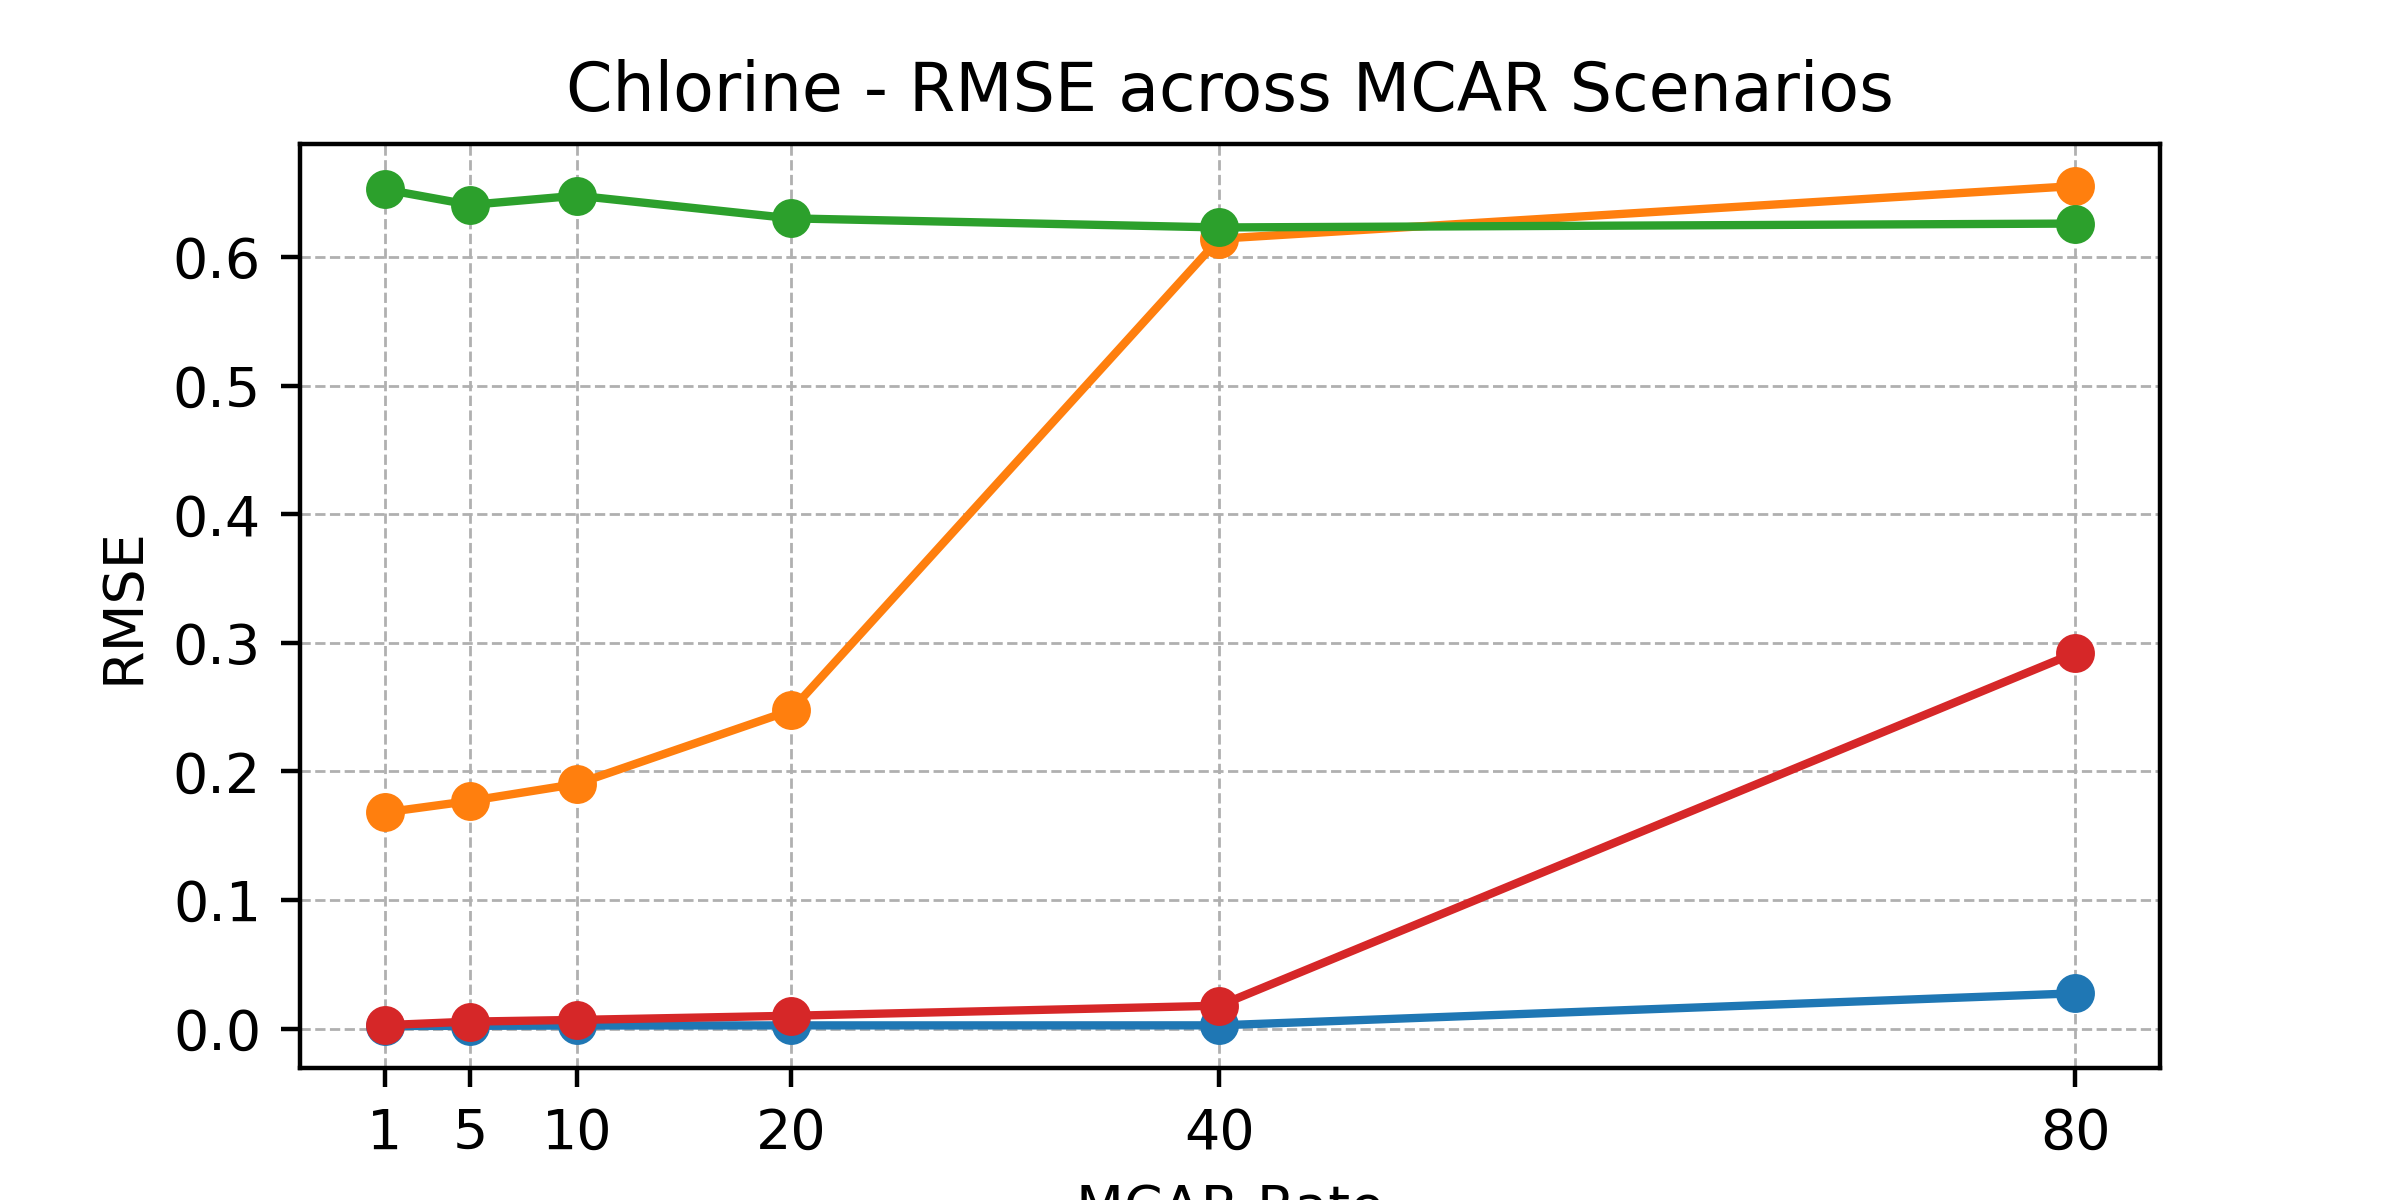
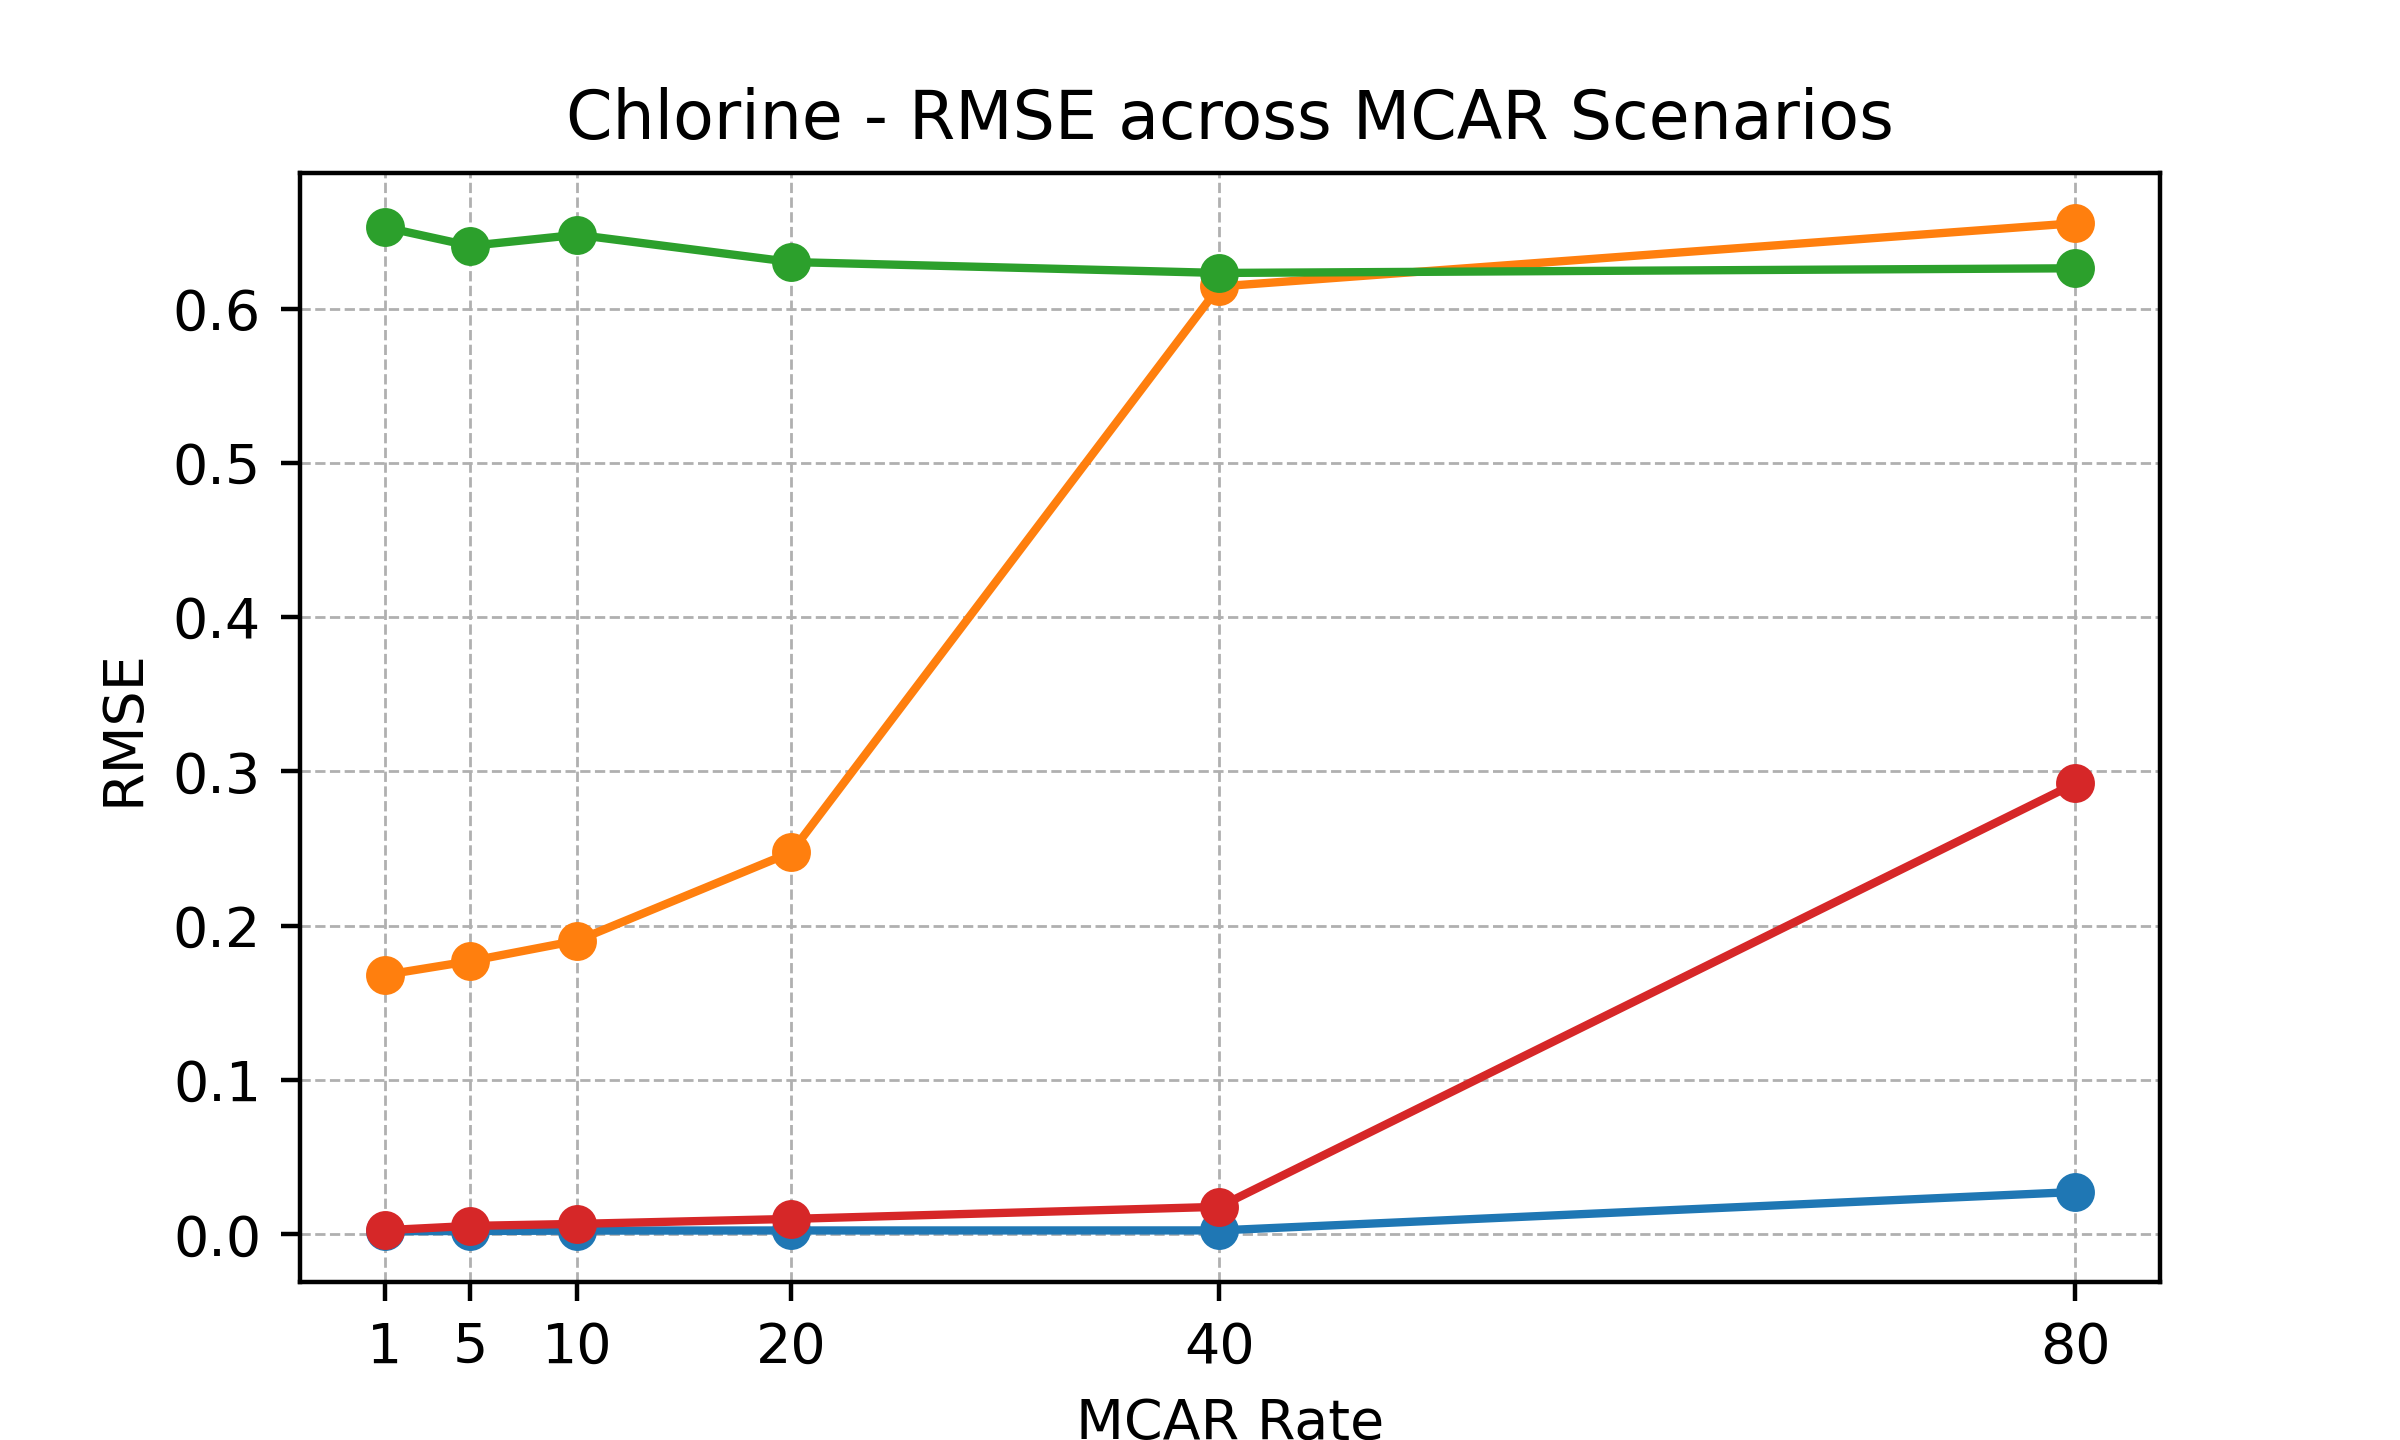
Thesis: WIP Examples and new plots for presentation

diff --git a/IIM/example.py b/IIM/example.py
@@ -1,0 +1,91 @@
+import numpy as np
+import matplotlib.pyplot as plt
+from sympy import symbols, Eq, solve
+
+# For the thesis
+# from sympy import symbols, Eq, solve
+#
+# # Define the variables
+# theta_0, theta_1, lambda_ = symbols('theta_0 theta_1 lambda_')
+#
+# # Differentiate J with respect to theta_0 and theta_1
+# partial_J_theta0 = 2*(theta_0 + theta_1 - 2) + 2*(theta_0 + 2.5*theta_1 - 3) + 2*lambda_*theta_0
+# partial_J_theta1 = 2*(theta_0 + theta_1 - 2) + 5*(theta_0 + 2.5*theta_1 - 3) + 2*lambda_*theta_1
+#
+# # Set the derivatives to zero and solve for theta_0 and theta_1
+# equation1 = Eq(partial_J_theta0, 0)
+# equation2 = Eq(partial_J_theta1, 0)
+#
+# # The solutions will be in terms of lambda
+# solutions = solve((equation1, equation2), (theta_0, theta_1))
+# solutions
+
+
+# For presentation:
+
+# Data
+Tids = ["t1", "t2", "t3", "t4", "t5", "t6", "t7", "t8", "tx"]
+A1 = [0, 0.8, 1.9, 2.9, 6.8, 7.5, 8.2, 9, 5]
+A2 = [5.8, 4.6, 3.8, 3.2, 3, 4.1, 4.8, 5.5, None]
+
+# Plotting
+plt.figure(figsize=(10, 6), dpi=500)
+plt.scatter(A1[:-1], A2[:-1], color="grey", edgecolors="black", s=100, zorder=3)
+plt.axvline(x=A1[-1], color="black", linestyle="--", zorder=2)
+for i, txt in enumerate(Tids[:-1]):
+    plt.annotate(txt, (A1[i], A2[i]), fontsize=15, ha='left', va='bottom', zorder=30)
+plt.annotate(Tids[-1], (A1[-1], 5.8), fontsize=15, ha='left', va='bottom', zorder=30)
+
+# Increase the size of the x and y-axis labels
+plt.xlabel("A1", fontsize=15)
+plt.ylabel("A2", fontsize=15)
+
+# Increase the size of the x and y-axis ticks
+plt.xticks(fontsize=14)
+plt.yticks(fontsize=14)
+
+# plt.title("Plot of points with Tid labels", fontsize=16)
+plt.xlim(0, 10)  # x range from 0 to 10
+plt.ylim(-0.5, 7)  # y range from 0 to 7
+plt.grid(False)
+
+
+plt.savefig("figures/iim-1.png")
+
+# Red Linear Regression for t1 to t4
+x1 = A1[:4]
+y1 = A2[:4]
+slope1, intercept1 = np.polyfit(x1, y1, 1)  # 1 denotes linear regression
+
+# Blue Linear Regression for t5 to t8
+x2 = A1[4:8]
+y2 = A2[4:8]
+slope2, intercept2 = np.polyfit(x2, y2, 1)
+
+# Find the intersection point x-coordinate
+intersection_x = (intercept2 - intercept1) / (slope1 - slope2)
+
+# Determine the boundaries of the x-coordinates for plotting
+x1_reg = np.linspace(min(x1) - 0.5, intersection_x + 0.5, 100)
+y1_reg = slope1 * x1_reg + intercept1
+plt.plot(x1_reg, y1_reg, color="red", label="t1 to t4 regression", linewidth=2)
+
+x2_reg = np.linspace(intersection_x - 0.5, max(x2) + 1, 100)
+y2_reg = slope2 * x2_reg + intercept2
+plt.plot(x2_reg+0, y2_reg, color="blue", label="t5 to t8 regression", linewidth=2)
+
+# Legend to distinguish regression lines
+# plt.legend(loc="best")
+
+# plt.show()
+plt.savefig("figures/iim-2.png")
+
+# Compute the y-coordinate of the intersection using either of the regression equations
+intersection_y = slope1 * intersection_x + intercept1
+
+# Plot the intersection point
+plt.scatter(intersection_x-0.05, intersection_y, color="black", edgecolors="black", s=150, zorder=4, label="Imputed")
+plt.annotate('Imputed', (intersection_x-0.225, intersection_y+0.1), fontsize=14, ha='right', va='bottom', zorder=40)
+
+# Save the figure
+plt.savefig("figures/iim-3.png")

diff --git a/M_RNN/example.py b/M_RNN/example.py
@@ -1,0 +1,96 @@
+# For the thesis
+import numpy as np
+import torch
+import matplotlib.pyplot as plt
+
+# Source: https://www.kaggle.com/code/markwallbang/m-rnn-estimate-missing-values-in-time-series
+# Generate the dummy dataset
+np.random.seed(123)
+f = np.array([1.5,2,2.5])
+offset = np.array([0,1,2]).reshape(-1,1)
+w = 2. * np.pi * f
+t = np.linspace(0, 1, 50)
+x = torch.tensor(np.sin(w.reshape(-1,1) * t)+offset).float()
+ground_truth = x.detach().clone()
+mask = torch.ones_like(x)
+delta = torch.ones_like(x).float()
+delta[:,0] = 0
+
+# remove 5% of the data
+ix = [(channel,t) for channel in range(x.shape[0]) for t in range(x.shape[1])]
+np.random.shuffle(ix)
+to_replace = int(round(.05*len(ix)))
+ix = ix[:to_replace]
+for idx in ix:
+    x[idx[0],idx[1]] = np.nan
+    mask[idx[0],idx[1]] = 0
+
+plt.figure(figsize=(12,4))
+plt.title("Dummy dataset")
+plt.xlabel("t")
+plt.ylabel("Measurement")
+for i in range(3):
+    plt.plot(t*50,x[i].cpu())
+    plt.plot(t*50,ground_truth[i].cpu(),alpha=0.4,c="grey",linestyle='dashed')
+
+###############################
+# Corrected matrices and vectors
+A1_corrected = np.array([[0, -0.59, -0.40],
+                         [0.07, 0, 0.75],
+                         [-0.14, 0.09, 0]])
+
+v1_corrected = np.array([[2], [4], [3]])
+
+A2_corrected = np.array([[-0.41, -0.49, 0.08],
+                         [0.14, 0.14, -0.14],
+                         [-0.51, -0.54, -0.04]])
+
+v2_corrected = np.array([[1.13], [0.57], [1.64]])
+
+A3_corrected = np.array([[-0.22, -0.64, -0.44],
+                         [0.53, -0.01, -0.52],
+                         [-0.38, -0.88, -0.56]])
+
+v3_corrected = np.array([[1], [1], [1]])
+
+v4_corrected = np.array([[-0.21], [0.62], [-0.17]])
+
+# Compute the matrix-vector multiplications and sum them using the corrected values
+result_corrected = (np.dot(A1_corrected, v1_corrected) + np.dot(A2_corrected, v2_corrected) +
+                    np.dot(A3_corrected, v3_corrected) + v4_corrected)
+
+# Apply ReLU function
+relu_result_corrected = np.maximum(0, result_corrected)
+relu_result_corrected
+#result array([-2.89952524,  1.89142254, -2.13751819])
+
+###################
+# Given matrices and vectors
+W = np.array([[-0.1957, -0.0024, -0.3857],
+              [0.0047, 0.5593, -0.2730],
+              [-0.0396, 0.5180, 0.2218]])
+
+h_13 = np.array([[0], [3], [0]])
+alpha = np.array([[0.5846], [0.3176], [0.49670]])
+
+# Compute the matrix-vector multiplication and add the bias
+x_hat_13 = W.dot(h_13) + alpha
+x_hat_13
+# Result: array([[0.5774],
+#        [1.9955],
+#        [2.0507]])
+
+###################
+# Rounded matrices and vectors
+W_rounded = np.array([[-0.19, -0, -0.39],
+                      [0, 0.56, -0.27],
+                      [-0.04, 0.52, 0.22]])
+
+alpha_rounded = np.array([[0.58], [0.32], [0.50]])
+
+# Compute the matrix-vector multiplication and add the bias using rounded values
+x_hat_13_rounded = W_rounded.dot(h_13) + alpha_rounded
+x_hat_13_rounded
+# array([[0.58],
+#        [2.  ],
+#        [2.06]])

diff --git a/Utils_Thesis/plotter.py b/Utils_Thesis/plotter.py
@@ -10,7 +10,8 @@ def plot_time_series(time_series: np.ndarray,
                      granularity: str = "daily",
                      year: int = 1975,
                      dpi: int = 400,
-                     save: bool = True) -> None:
+                     save: bool = True,
+                     rate: int = 0) -> None:
     """
     Plot a time series.
 
@@ -29,6 +30,8 @@ def plot_time_series(time_series: np.ndarray,
         Dots Per Inch for the plot. Defaults to 400.
     save : bool, optional
         Whether to save the plot to the "Results" directory. Defaults to True.
+    rate : int, optional
+        The rate of missing values in the time series. Defaults to 0.
 
     Returns
     -------
@@ -38,6 +41,8 @@ def plot_time_series(time_series: np.ndarray,
 
     # Arbitrary starting point: start of the current year
     start_date = datetime(year, 1, 1)
+    if title == "Bafu":
+        start_date = datetime(year, 12, 12)
 
     # Generate time labels based on granularity
     if granularity == "daily":
@@ -76,7 +81,8 @@ def plot_time_series(time_series: np.ndarray,
 
     if save:
         # Save the figure in the Results folder
-        filename = os.path.join("Results", f"{title}.png")
+        # filename = os.path.join("Results", f"{title}.png")
+        filename = os.path.join("Results", f"{title}_{rate}.png")
         plt.savefig(filename, dpi=dpi)
 
     # plt.show()
@@ -124,6 +130,16 @@ if __name__ == "__main__":
         raw_matrix = np.loadtxt(raw_file_path, delimiter=" ")
         plot_time_series(raw_matrix[:, 0], series_name, dataset.title(), granularity=granularity, year=start_year,
                          dpi=400, save=True)
+
+    for dataset, data_file, granularity, series_name, start_year in zip(datasets, dataset_files, granularities,
+                                                                        series_names, starting_years):
+        for mcar in ["1", "5", "10", "20", "40","80"]:
+            obfuscated_file_path = f"../Datasets/{dataset}/obfuscated/{data_file}_eighth_obfuscated_{mcar}.txt"
+
+            raw_matrix = np.loadtxt(obfuscated_file_path, delimiter=" ")
+            plot_time_series(raw_matrix[:, 0], series_name, dataset.title(), granularity=granularity, year=start_year,
+                             dpi=400, save=True, rate=mcar)
+
     # Test the plot_time_series function
     # Generate a random time series
     # time_series = np.random.rand(100)

diff --git a/Optimizer/plotter.py b/Optimizer/plotter.py
@@ -497,7 +497,7 @@ def plot_optimization_comparison(input_file_path: str,
 
 
 def plot_across_mcar_rates(metric: str, output_file_path: str,
-                           width: int = 10, height: int = 6, dpi: int = 400) -> None:
+                           width: int = 10, height: int = 6.5, dpi: int = 400) -> None:
     """
     Plots the metric across different MCAR rates for all datasets and algorithms.
 
@@ -567,7 +567,7 @@ def save_legend_only(output_file_path: str, dpi: int = 100) -> None:
         plt.plot([0, 1], [result[metric], result[metric]], label=util.mapper(alg))
 
     # Create horizontal legend
-    legend = plt.legend(loc='center', ncol=len(algorithms), frameon=False)
+    legend = plt.legend(loc='center', frameon=False)
     plt.gca().set_axis_off()
     plt.subplots_adjust(top=1, bottom=0, left=0, right=1)
     plt.margins(0, 0)
@@ -601,5 +601,5 @@ if __name__ == '__main__':
     # plot_best_algorithm_by_dataset(optimized_paths)
 
     for metric_to_plot in ["rmse", "mi", "corr", "time_taken"]:
-        plot_across_mcar_rates(metric_to_plot, 'figures/scenario', width=6, height=3, dpi=400)
+        plot_across_mcar_rates(metric_to_plot, 'figures/scenario', width=6, height=3.6, dpi=400)
     save_legend_only('figures/scenario', dpi=400)
